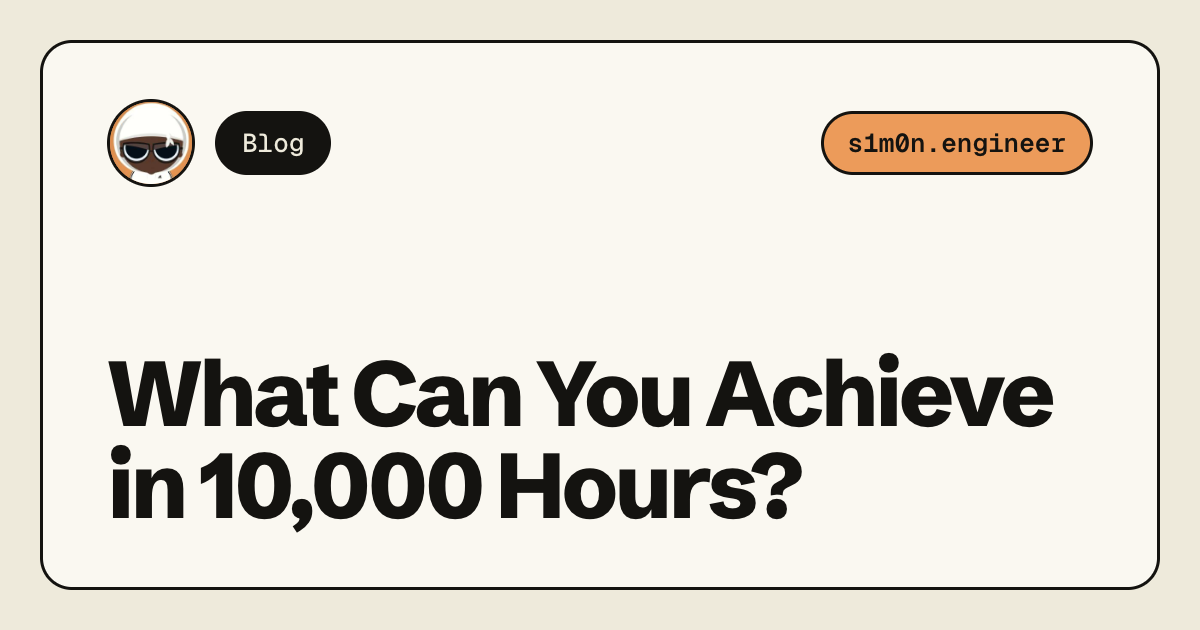
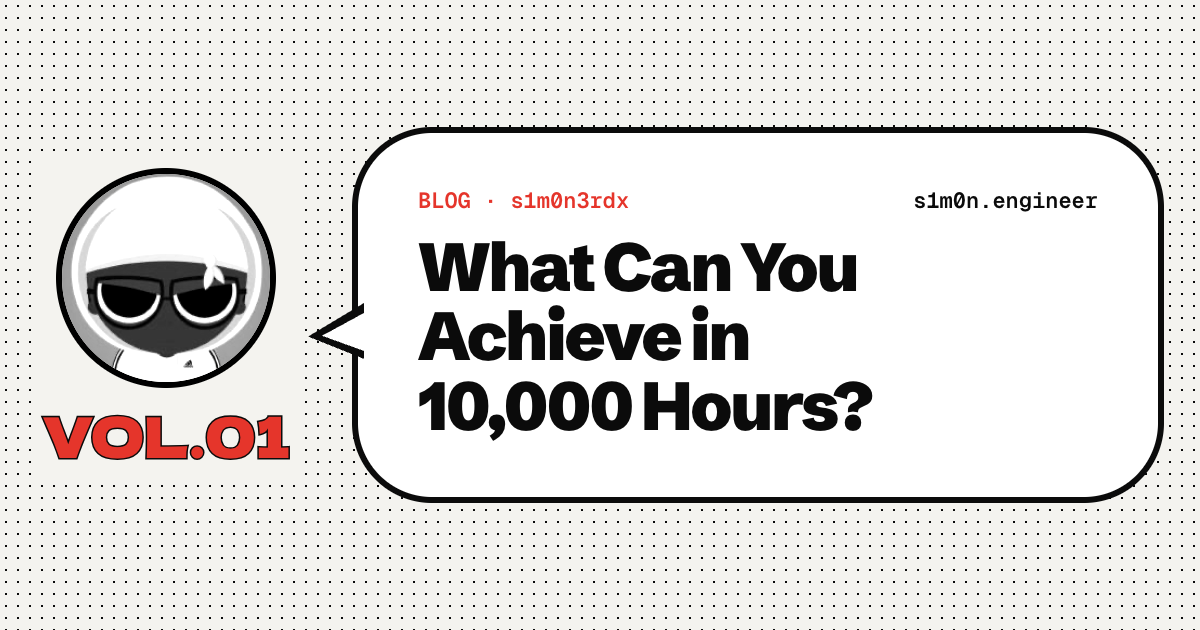
feat(og): wanted poster preview and speech bubble for articles

diff --git a/docs/og-image/template.html b/docs/og-image/template.html
@@ -4,68 +4,134 @@
     <meta charset="utf-8" />
     <link
       rel="stylesheet"
-      href="https://fonts.googleapis.com/css2?family=Schibsted+Grotesk:wght@500;700;800&family=Geist+Mono:wght@500;600&display=block"
+      href="https://fonts.googleapis.com/css2?family=Schibsted+Grotesk:wght@600;800;900&family=Geist+Mono:wght@500;600&family=Dela+Gothic+One&display=block"
     />
     <style>
-      * { box-sizing: border-box; margin: 0; }
-      html, body { width: 1200px; height: 630px; overflow: hidden; }
+      * {
+        box-sizing: border-box;
+        margin: 0;
+      }
+      html,
       body {
-        padding: 40px;
-        background: #eeeadb;
-        color: #141310;
+        width: 1200px;
+        height: 630px;
+        overflow: hidden;
+      }
+      body {
+        background: #f4f3ef;
+        color: #0b0b0b;
         font-family: "Schibsted Grotesk", sans-serif;
         -webkit-font-smoothing: antialiased;
       }
-      .card {
-        height: 100%;
-        padding: 56px 64px;
-        border: 3px solid #141310;
-        border-radius: 32px;
-        background: #faf8f1;
+      .mono {
+        font-family: "Geist Mono", monospace;
+      }
+      .sfx {
+        font-family: "Dela Gothic One", sans-serif;
+      }
+      body {
+        padding: 36px;
+        display: grid;
+        grid-template-columns: 420px 1fr;
+        gap: 40px;
+        align-items: center;
+        background-image: radial-gradient(#0b0b0b 1.2px, transparent 1.6px);
+        background-size: 12px 12px;
+        background-color: #f4f3ef;
+      }
+      .poster {
+        background: #fff;
+        border: 5px solid #0b0b0b;
+        padding: 22px;
+        box-shadow: 14px 14px 0 #e5352b;
+        transform: rotate(-2deg);
         display: flex;
         flex-direction: column;
-        justify-content: space-between;
+        gap: 14px;
       }
-      .top { display: flex; align-items: center; justify-content: space-between; }
-      .avatar {
-        width: 112px;
-        height: 112px;
-        border-radius: 50%;
-        border: 3px solid #141310;
-        background: #ec9b5a;
+      .w {
+        font: 400 62px/0.9 "Dela Gothic One";
+        text-align: center;
+        letter-spacing: -0.02em;
+      }
+      .photo {
+        position: relative;
+        aspect-ratio: 1;
+        border: 4px solid #0b0b0b;
+        overflow: hidden;
+      }
+      .photo img {
+        width: 100%;
+        height: 100%;
         object-fit: cover;
+        filter: grayscale(1) contrast(1.2);
       }
-      .pill {
-        display: inline-flex;
+      .stamp {
+        position: absolute;
+        right: 10px;
+        bottom: 12px;
+        padding: 8px 12px;
+        background: #e5352b;
+        color: #fff;
+        border: 3px solid #0b0b0b;
+        font: 600 18px/1 "Geist Mono";
+        transform: rotate(-5deg);
+      }
+      .bounty {
+        display: flex;
+        justify-content: space-between;
         align-items: center;
-        padding: 16px 24px;
-        border-radius: 999px;
-        font: 500 26px/1 "Geist Mono", monospace;
-        border: 3px solid #141310;
+        padding: 12px 14px;
+        background: #0b0b0b;
+        color: #f4f3ef;
       }
-      .domain { background: #ec9b5a; font-weight: 600; }
+      .bounty b {
+        font: 400 34px/1 "Dela Gothic One";
+        color: #ff7a70;
+      }
+      .right {
+        display: flex;
+        flex-direction: column;
+        gap: 22px;
+        background: #f4f3ef;
+        padding: 20px 0;
+      }
       h1 {
-        font-weight: 800;
-        font-size: 168px;
-        line-height: 0.9;
-        letter-spacing: -0.05em;
+        font-weight: 900;
+        font-size: 100px;
+        line-height: 0.86;
+        letter-spacing: -0.055em;
       }
-      .bottom { display: flex; gap: 14px; }
-      .dark { background: #141310; border-color: #141310; color: #eeeadb; }
+      h1 span {
+        color: #e5352b;
+      }
+      .line {
+        font: 500 26px/1.3 "Geist Mono";
+      }
+      .chip {
+        align-self: flex-start;
+        padding: 14px 18px;
+        background: #e5352b;
+        color: #fff;
+        border: 3px solid #0b0b0b;
+        font: 600 24px/1 "Geist Mono";
+      }
     </style>
   </head>
   <body>
-    <div class="card">
-      <div class="top">
-        <img class="avatar" src="../../src/assets/avatar.png" alt="" />
-        <span class="pill domain">s1m0n.engineer</span>
+    <div class="poster">
+      <div class="w">WANTED</div>
+      <div class="photo">
+        <img src="../../src/assets/avatar.png" /><span class="stamp">DEAD OR ALIVE</span>
       </div>
-      <h1>s1m0n3rdx</h1>
-      <div class="bottom">
-        <span class="pill dark">Software Engineer</span>
-        <span class="pill">Dakar</span>
-        <span class="pill">A pretty cool blogfolio</span>
+      <div class="bounty">
+        <span class="mono" style="font-size: 18px">BOUNTY</span><b>10,000 h</b>
       </div>
+    </div>
+    <div class="right">
+      <h1>s1m0n3rdx<span>.</span></h1>
+      <div class="line">Software Engineer · Dakar<br />blog, projects &amp; void</div>
+      <span class="chip">s1m0n.engineer</span>
     </div>
   </body>
 </html>

diff --git a/docs/og-image/article.html b/docs/og-image/article.html
@@ -1,75 +1,122 @@
 <!doctype html>
-<!-- usage: article.html?title=My%20title&label=Blog -->
+<!-- usage: article.html?title=My%20title&vol=01 -->
 <html>
   <head>
     <meta charset="utf-8" />
     <link
       rel="stylesheet"
-      href="https://fonts.googleapis.com/css2?family=Schibsted+Grotesk:wght@500;700;800&family=Geist+Mono:wght@500;600&display=block"
+      href="https://fonts.googleapis.com/css2?family=Schibsted+Grotesk:wght@600;800;900&family=Geist+Mono:wght@500;600&family=Dela+Gothic+One&display=block"
     />
     <style>
-      * { box-sizing: border-box; margin: 0; }
-      html, body { width: 1200px; height: 630px; overflow: hidden; }
+      * {
+        box-sizing: border-box;
+        margin: 0;
+      }
+      html,
       body {
-        padding: 40px;
-        background: #eeeadb;
-        color: #141310;
+        width: 1200px;
+        height: 630px;
+        overflow: hidden;
+      }
+      body {
+        background: #f4f3ef;
+        color: #0b0b0b;
         font-family: "Schibsted Grotesk", sans-serif;
         -webkit-font-smoothing: antialiased;
       }
-      .card {
-        height: 100%;
-        padding: 56px 64px;
-        border: 3px solid #141310;
-        border-radius: 32px;
-        background: #faf8f1;
+      .mono {
+        font-family: "Geist Mono", monospace;
+      }
+      .sfx {
+        font-family: "Dela Gothic One", sans-serif;
+      }
+      body {
+        padding: 36px;
+        display: grid;
+        grid-template-columns: 260px 1fr;
+        gap: 56px;
+        align-items: center;
+        background-image: radial-gradient(#0b0b0b 1.1px, transparent 1.5px);
+        background-size: 12px 12px;
+      }
+      .left {
         display: flex;
         flex-direction: column;
-        justify-content: space-between;
-      }
-      .top { display: flex; align-items: center; justify-content: space-between; }
-      .author { display: flex; align-items: center; gap: 20px; }
-      .avatar {
-        width: 88px;
-        height: 88px;
-        border-radius: 50%;
-        border: 3px solid #141310;
-        background: #ec9b5a;
-        object-fit: cover;
-      }
-      .pill {
-        display: inline-flex;
         align-items: center;
-        padding: 16px 24px;
-        border-radius: 999px;
-        font: 500 26px/1 "Geist Mono", monospace;
-        border: 3px solid #141310;
+        gap: 18px;
+        background: #f4f3ef;
+        padding: 16px;
       }
-      .domain { background: #ec9b5a; font-weight: 600; }
-      .dark { background: #141310; color: #eeeadb; }
+      .left img {
+        width: 220px;
+        height: 220px;
+        border-radius: 50%;
+        border: 6px solid #0b0b0b;
+        object-fit: cover;
+        filter: grayscale(1) contrast(1.15);
+      }
+      .vol {
+        font: 400 56px/1 "Dela Gothic One";
+        color: #e5352b;
+        -webkit-text-stroke: 3px #0b0b0b;
+        paint-order: stroke fill;
+      }
+      .bubble {
+        position: relative;
+        background: #fff;
+        border: 6px solid #0b0b0b;
+        border-radius: 80px;
+        padding: 56px 60px;
+      }
+      .bubble:before,
+      .bubble:after {
+        content: "";
+        position: absolute;
+        clip-path: polygon(100% 0, 0 60%, 100% 100%);
+      }
+      .bubble:before {
+        left: -50px;
+        top: 170px;
+        width: 56px;
+        height: 56px;
+        background: #0b0b0b;
+      }
+      .bubble:after {
+        left: -36px;
+        top: 180px;
+        width: 42px;
+        height: 38px;
+        background: #fff;
+      }
       h1 {
-        font-weight: 800;
-        font-size: 92px;
-        line-height: 1;
+        font-weight: 900;
+        font-size: 68px;
+        line-height: 1.02;
         letter-spacing: -0.04em;
         text-wrap: balance;
+      }
+      .meta {
+        display: flex;
+        justify-content: space-between;
+        margin-bottom: 22px;
+        font: 600 22px/1 "Geist Mono";
+      }
+      .meta b {
+        color: #e5352b;
       }
     </style>
   </head>
   <body>
-    <div class="card">
-      <div class="top">
-        <div class="author">
-          <img class="avatar" src="../../src/assets/avatar.png" alt="" />
-          <span class="pill dark" id="label">Blog</span>
-        </div>
-        <span class="pill domain">s1m0n.engineer</span>
-      </div>
+    <div class="left">
+      <img src="../../src/assets/avatar.png" /><span class="vol">VOL.<span id="vol">01</span></span>
+    </div>
+    <div class="bubble">
+      <div class="meta"><b>BLOG · s1m0n3rdx</b><span>s1m0n.engineer</span></div>
       <h1 id="title">Article title</h1>
     </div>
     <script>
       const params = new URLSearchParams(location.search);
-      for (const id of ["title", "label"]) {
+      for (const id of ["title", "vol"]) {
         const value = params.get(id);
         if (value) document.getElementById(id).textContent = value;
       }

diff --git a/docs/og-image/README.md b/docs/og-image/README.md
@@ -4,7 +4,7 @@
 
 ## Regenerate it
 
-1. Edit the text in [`template.html`](./template.html) (title, pills, domain). The avatar comes from `src/assets/avatar.png`.
+1. Edit [`template.html`](./template.html): a manga wanted poster (avatar, DEAD OR ALIVE, 10,000 h bounty) next to the site name, the role and the domain, on a screentone background. The avatar comes from `src/assets/avatar.png`.
 2. From the root of the repo, render it with headless Chrome:
 
 ```bash
@@ -22,7 +22,7 @@
 
 An article can have its own preview image. Without one, it uses `public/og.png`.
 
-1. Render [`article.html`](./article.html) with the title in the URL (URL-encoded), into the article's assets folder:
+1. Render [`article.html`](./article.html) (the avatar saying the title in a speech bubble) with the title (URL-encoded) and the volume number in the URL, into the article's assets folder:
 
 ```bash
 mkdir -p src/assets/blog/<article>/og
@@ -31,7 +31,7 @@ mkdir -p src/assets/blog/<article>/og
   --allow-file-access-from-files --virtual-time-budget=5000 \
   --window-size=1200,630 \
   --screenshot=src/assets/blog/<article>/og/en.png \
-  "file://$PWD/docs/og-image/article.html?title=My%20article%20title"
+  "file://$PWD/docs/og-image/article.html?title=My%20article%20title&vol=02"
 ```
 
 2. Reference it in the article frontmatter, relative to the `.mdx` file:
@@ -40,7 +40,7 @@ mkdir -p src/assets/blog/<article>/og
 ogImage: ../../../assets/blog/<article>/og/en.png
 ```
 
-One image per language (`og/en.png`, `og/fr.png`), since the titles differ. `&label=` changes the dark pill (default `Blog`).
+One image per language (`og/en.png`, `og/fr.png`), since the titles differ. `vol` is the article's volume number on the manga blog (oldest article = `01`).
 
 ## Notes
 
